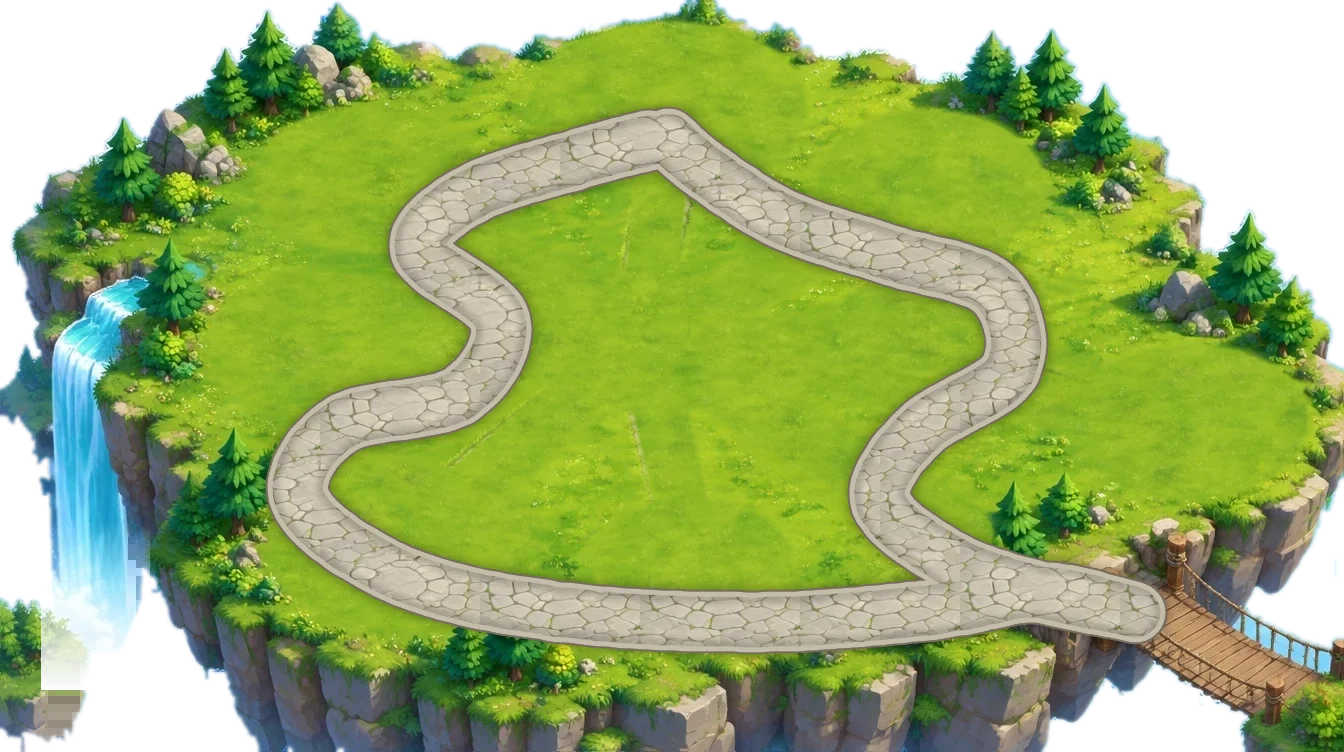
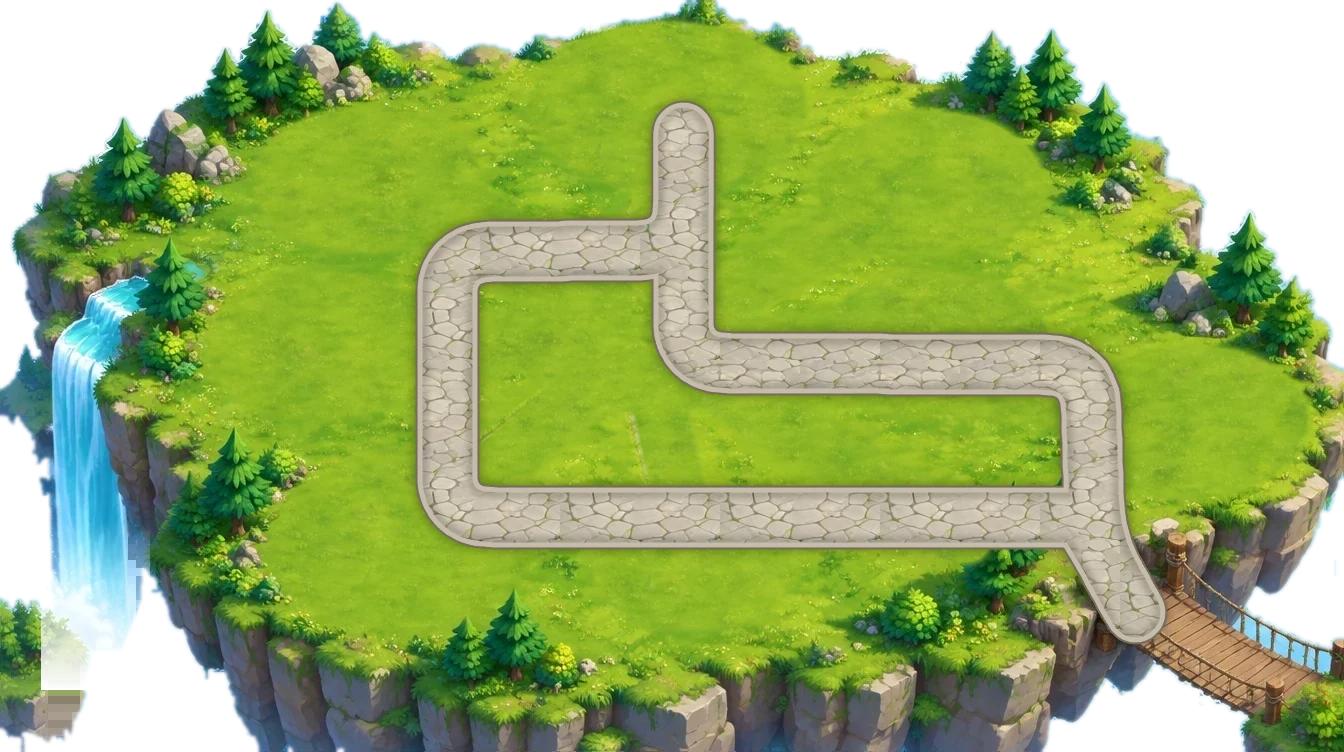
Co-op TD: new user-designed map, 9 slots per player, bigger portrait view, combo per side
Claude-Session: https://claude.ai/code/session_011E9LWJD9fmTXFP3WMnthkp

Changed region(s): [[0.1875, 0.1223, 0.875, 0.887]]

diff --git a/index.html b/index.html
@@ -3198,10 +3198,10 @@ const tdTix=()=>{const t=tdSV();return 3+t.buy-t.used};
 const TDLV=1,tdOpen=()=>owned().length>0;
 // ---- path helpers(支援多條路線)
 function tdMkRoute(P){const L=[0];for(let i=1;i<P.length;i++){const [x0,y0]=P[i-1],[x1,y1]=P[i];L.push(L[i-1]+Math.hypot(x1-x0,y1-y0))}return {P,L,len:L[L.length-1]}}
-const TDR1=[tdMkRoute(TDPATH)],TDR2=[[[1135,612],[1128,610],[1118,609],[1106,606],[1093,604],[1079,601],[1066,598],[1052,595],[1040,592],[1028,589],[1017,586],[1005,582],[993,578],[982,575],[971,570],[960,565],[950,560],[940,554],[928,547],[918,540],[907,532],[897,524],[889,516],[883,508],[880,500],[879,492],[881,483],[885,474],[890,465],[896,456],[904,447],[912,438],[920,430],[930,422],[941,415],[955,408],[968,401],[982,394],[994,386],[1003,378],[1010,370],[1014,361],[1016,350],[1016,340],[1015,328],[1012,318],[1008,307],[1002,298],[995,290],[986,284],[975,278],[962,274],[948,270],[933,266],[918,263],[904,259],[890,255],[877,251],[863,247],[849,242],[836,238],[822,234],[809,230],[797,225],[785,220],[774,214],[763,209],[752,202],[742,196],[733,190],[724,183],[716,177],[708,172],[701,167],[694,162],[688,157],[683,152],[678,148],[674,144],[671,140],[668,138]],[[1135,612],[1128,610],[1118,608],[1107,604],[1094,601],[1081,598],[1067,595],[1053,593],[1040,592],[1027,592],[1015,594],[1002,596],[990,599],[976,602],[962,605],[947,608],[930,610],[912,612],[892,614],[872,616],[851,618],[829,619],[806,621],[783,622],[760,622],[736,622],[711,622],[685,621],[659,620],[633,619],[608,617],[583,615],[560,612],[538,609],[516,606],[494,602],[474,598],[454,593],[435,588],[417,582],[400,575],[384,567],[368,559],[352,550],[338,540],[325,530],[314,520],[305,510],[300,500],[298,490],[298,480],[301,470],[306,460],[313,450],[321,441],[330,432],[340,425],[352,419],[366,415],[383,412],[400,410],[417,408],[434,405],[448,401],[460,395],[470,388],[478,379],[486,370],[492,360],[497,350],[500,340],[501,329],[500,320],[495,311],[485,302],[473,293],[459,284],[446,275],[434,266],[425,258],[420,250],[420,242],[422,235],[427,227],[433,220],[442,214],[451,207],[460,201],[470,195],[481,190],[493,184],[507,180],[521,175],[535,171],[550,167],[563,164],[575,160],[586,157],[598,154],[609,150],[619,148],[629,145],[637,143],[644,141],[650,140]]].map(tdMkRoute);let TDR=TDR1;
+const TDR1=[tdMkRoute(TDPATH)],TDR2=[[[1135,612],[1130,602],[1124,592],[1119,582],[1113,572],[1108,562],[1104,551],[1100,540],[1098,529],[1096,518],[1094,507],[1094,495],[1093,483],[1093,472],[1093,460],[1092,449],[1092,437],[1092,425],[1091,414],[1091,404],[1089,395],[1085,385],[1080,378],[1073,372],[1064,368],[1054,366],[1045,365],[1033,365],[1021,365],[1009,365],[998,364],[986,364],[974,364],[962,364],[950,364],[938,364],[926,364],[914,364],[902,364],[890,364],[879,364],[867,364],[855,364],[843,364],[831,364],[819,364],[807,364],[795,364],[784,364],[772,363],[760,363],[748,363],[736,363],[724,363],[713,361],[703,358],[696,353],[690,346],[686,337],[684,326],[683,314],[683,302],[683,290],[683,278],[683,267],[683,255],[683,243],[683,231],[683,219],[683,207],[683,195],[683,183],[683,172],[683,160],[683,148],[683,136]],[[1135,612],[1129,602],[1124,592],[1118,582],[1113,572],[1107,562],[1102,552],[1096,542],[1090,532],[1085,525],[1077,519],[1066,517],[1054,517],[1042,517],[1030,517],[1018,517],[1006,517],[994,517],[982,517],[971,517],[959,517],[947,517],[935,517],[923,517],[911,517],[899,517],[887,517],[875,517],[863,517],[851,517],[839,517],[827,517],[815,517],[803,517],[791,517],[779,517],[767,517],[755,517],[743,517],[731,517],[719,517],[707,517],[695,517],[683,517],[672,517],[660,517],[648,517],[636,517],[624,517],[612,517],[600,517],[588,517],[576,517],[564,517],[552,517],[540,517],[528,517],[516,517],[504,517],[492,517],[480,516],[470,513],[462,509],[455,502],[451,494],[448,484],[447,472],[447,460],[447,448],[447,436],[447,424],[447,412],[447,400],[447,388],[447,376],[447,365],[447,353],[447,341],[447,329],[447,317],[447,305],[447,293],[449,282],[452,272],[457,264],[464,259],[473,254],[484,252],[496,252],[508,252],[520,251],[532,251],[543,251],[555,251],[567,251],[579,251],[591,251],[602,251],[614,251],[626,250],[638,250],[650,249],[660,246],[668,242],[675,235],[679,227],[682,217],[683,205],[683,194],[683,182],[683,170],[683,159],[683,147],[683,136]]].map(tdMkRoute);let TDR=TDR1;
 const TDLEN=TDR1[0].len;
-const TDSLOT2=[[1080,460],[930,330],[1090,250],[800,320],[390,490],[200,420],[560,520],[580,280],[780,555],[668,250]],TDSIDE2=['A','A','A','A','B','B','B','B','C','C'];
-const TDDECO2=[[230,170],[1175,240],[1240,450],[220,600],[880,140],[1000,120],[150,330],[620,430],[460,110],[700,340]];
+const TDSLOT2=[[770,150],[770,225],[770,300],[865,300],[960,300],[1055,300],[1172,405],[1172,495],[642,402],[505,190],[600,190],[370,330],[535,318],[370,450],[540,585],[665,585],[790,585],[915,585]],TDSIDE2=['A','A','A','A','A','A','A','A','A','B','B','B','B','B','B','B','B','B'];
+const TDDECO2=[[230,170],[1175,240],[1240,450],[220,600],[880,140],[1000,120],[150,330],[850,445],[460,110],[960,445]];
 function tdPos(d,r){const R=TDR[r||0]||TDR[0],L=R.L,P=R.P;d=clamp(d,0,R.len);let lo=0,hi=L.length-1;while(hi-lo>1){const m=(lo+hi)>>1;if(L[m]<=d)lo=m;else hi=m}const f=(d-L[lo])/Math.max(1e-6,L[hi]-L[lo]),[x0,y0]=P[lo],[x1,y1]=P[hi];return [x0+(x1-x0)*f,y0+(y1-y0)*f,x1-x0]}
 // ---- waves
 function tdPool(tone){const all=Object.keys(ENEMY).filter(k=>!ENEMY[k].boss&&!['skcat'].includes(k)),main=all.filter(k=>TDCNT[tone].includes(ENEMY[k].el));return {all,main:main.length?main:all}}
@@ -3323,7 +3323,7 @@ function tdImpact(kd,x,y,big){const T=TD,m=big?2.2:1,P=o=>T.parts.push(Object.as
   else if(kd==='rock'){for(let i=0;i<9*m;i++){const a=-Math.PI*R(.05,.95),v=R(60,170)*m;P({x,y:y+8,vx:Math.cos(a)*v,vy:Math.sin(a)*v,g:400,life:R(.4,.7),c:['#a07850','#c8a878','#7a5a3a'][i%3],sz:R(3,6)*m})}for(let i=0;i<5*m;i++)P({puff:1,x:x+R(-20,20)*m,y:y+10,vx:R(-30,30),vy:R(-30,-10),g:0,life:R(.5,.8),c:'210,190,160',sz:R(10,18)*m})}
   else if(kd==='bee'){for(let i=0;i<5;i++){const a=rnd()*7,v=R(40,90);P({x,y,vx:Math.cos(a)*v,vy:Math.sin(a)*v,g:0,life:.35,c:['#ffd020','#3a2a10'][i%2],sz:2.5})}}}
 function tdUlt(w,e,a){const T=TD,[x,y]=TD.slots[w.slot],[ex,ey]=tdPos(e.d,e.r),el=w.el,P=o=>T.parts.push(Object.assign({t:0},o)),R=(a2,b)=>a2+rnd()*(b-a2);
-  if(T.coop){const now=T.t,me=w.side||'A';const o=T.ults.find(u=>u.side!==me&&now-u.t<2&&Math.hypot(u.x-ex,u.y-ey)<170);T.ults=T.ults.filter(u=>now-u.t<2);T.ults.push({side:me,t:now,x:ex,y:ey});if(o){T.ults=[];tdLater(.45,()=>tdCombo((ex+o.x)/2,(ey+o.y)/2))}}
+  if(T.coop){const now=T.t,me=w.side||'A';const o=T.ults.find(u=>u.side!==me&&now-u.t<2);T.ults=T.ults.filter(u=>now-u.t<2);T.ults.push({side:me,t:now,x:ex,y:ey});if(o){T.ults=[];tdLater(.45,()=>{tdCombo(ex,ey);tdCombo(o.x,o.y)})}}
   sfxSkill(w.k,SV.pets[w.k]?SV.pets[w.k].st:0);const hit=()=>{if(e.hp>0||1)tdHit(w,e,a,true);tdImpact(el,ex,ey-20,1);T.shake=Math.max(T.shake,.35)};
   if(el==='fire'){P({meteor:1,x:ex+120,y:ey-420,x2:ex,y2:ey-10,life:.38,c:'fire'});tdLater(.36,()=>{hit();P({ring:1,x:ex,y:ey,r:110,life:.5,c:'#ff8a30',lw:6});for(let i=0;i<16;i++){const an=i/16*7;P({flame:1,x:ex+Math.cos(an)*30,y:ey+Math.sin(an)*20,vx:Math.cos(an)*120,vy:Math.sin(an)*60-80,g:-60,life:R(.5,.8),sz:R(10,16)})}tdFlash('255,160,60',.28,.25)})}
   else if(el==='water'){P({wave:1,x:ex,y:ey,life:.7,r:120});hit();for(let i=0;i<5;i++)P({pillar:1,x:ex+R(-70,70),y:ey+R(-20,20),life:R(.45,.7),h:R(60,110),c:'#7fd0ff'});tdFlash('120,200,255',.18,.3)}
@@ -3380,7 +3380,7 @@ function tdUpdate(dt){const T=TD;if(!T)return;TT+=dt;try{skinFx(T.SK,dt)}catch(e
   if(T.parts.length>650)T.parts.splice(0,T.parts.length-650)}
 function tdNextWave(){const T=TD;T.wave++;T.spawn=TDPEEK[T.wave+T.tone]||tdWave(T.wave);delete TDPEEK[T.wave+T.tone];T.st=0;T.gap=0;T.waveOn=true;T.bt=2;sfx('up');tdHudBuild()}
 // ---- draw
-function tdLayout(){const port=H>W*1.05,top=port?50:46,bot=port?118:4,cp=TD&&TD.coop;const vx0=cp?110:port?292:200,vx1=cp?1250:port?1050:1300,vy0=port?-20:-15,vy1=port?690:650;const vw=vx1-vx0,vh=vy1-vy0;
+function tdLayout(){const port=H>W*1.05,top=port?50:46,bot=port?118:4,cp=TD&&TD.coop;const vx0=cp?(port?325:200):port?292:200,vx1=cp?(port?1215:1300):port?1050:1300,vy0=port?-20:-15,vy1=port?690:650;const vw=vx1-vx0,vh=vy1-vy0;
   const s=Math.min(W/vw,(H-top-bot)/vh);TDV.s=s;TDV.port=port;TDV.ox=(W-vw*s)/2-vx0*s;TDV.oy=(port?top:top+((H-top-bot)-vh*s)/2)-vy0*s;TDV.mb=TDV.oy+vy1*s;
   const pk=$('tdPick'),inf=$('tdInfo'),bb=$('tdBot').getBoundingClientRect(),bt=Math.round((bb.height?H-bb.top:78)+8)+'px';if(port&&H-TDV.mb>200){const tp=Math.round(TDV.mb+6)+'px';pk.style.top=tp;pk.style.bottom=bt;pk.style.maxHeight='none';inf.style.top=tp;inf.style.bottom='auto';inf.style.maxHeight=Math.max(80,(bb.height?bb.top:H-78)-8-TDV.mb-6)+'px';inf.hidden=!pk.hidden}else{pk.style.top='';pk.style.bottom='';pk.style.maxHeight='';inf.hidden=true}}
 const tdX=x=>TDV.ox+x*TDV.s,tdY=y=>TDV.oy+y*TDV.s;
@@ -3534,7 +3534,7 @@ function tdPick(i){const T=TD,P=$('tdPick'),w=T.tw[i];P.hidden=false;
     if(a==='up'){const c=tdUpW(w);if(T.energy<c||w.lv>=3)return;T.energy-=c;w.spent+=c;w.lv++;w.rgT=1.2;const [x,y]=TD.slots[i];tdPart(x,y-40,20,['#ffe066','#fff'],180,.6,5);tdTxt(x,y-100,'升級!','#ffe066');sfx('up');tdPick(i);return}
     if(a==='sell'){T.energy+=Math.floor(w.spent*.5);delete T.tw[i];T.sel=null;P.hidden=true}})}
 function tdInfoHtml(){const T=TD,n=tdNP(),nw=T.prep>0?1:T.wave+1,fin=T.mode!=='endless'&&nw>TDW;const ks=fin?[]:[...new Set((T.spawn.length&&T.wave?T.spawn:tdPeek(nw)).map(x=>x.k))].slice(0,6);
-  if(T.coop)return `<div class="tdih"><b>👥 好友共同守塔(試玩)</b> ${tdBonHtml()}<small>按上方「🎮」切換右路／左路玩家;右、左石台各自守一路,粉紅「共用」石台誰都能放。兩人 2 秒內在同一區放大招會觸發「💞 友情合擊」!</small></div><div class="tdih"><small>右路能量 ✦${Math.floor(T.side==='A'?T.energy:T.store.A)} · 左路能量 ✦${Math.floor(T.side==='B'?T.energy:T.store.B)} · 城門 ${T.hp}/${T.hpMax}</small></div>`;
+  if(T.coop)return `<div class="tdih"><b>👥 好友共同守塔(試玩)</b> ${tdBonHtml()}<small>按上方「🎮」切換右路／左路玩家;右、左路玩家各有 9 座石台,各自守自己那一路。兩人 2 秒內都放出大招會觸發「💞 友情合擊」!</small></div><div class="tdih"><small>右路能量 ✦${Math.floor(T.side==='A'?T.energy:T.store.A)} · 左路能量 ✦${Math.floor(T.side==='B'?T.energy:T.store.B)} · 城門 ${T.hp}/${T.hpMax}</small></div>`;
   return `<div class="tdih"><b>${T.S.ic} ${T.SK.n}</b> ${tdBonHtml()}<small>萌獸 ${n} 座 · 砲塔 ${tdNW()} 座 · 點「+」石台放萌獸或砲塔(同一隻可以重複放),點已放的可以升級或收回</small></div>
   ${fin?'':`<div class="tdiw"><b>${T.spawn.length&&T.wave?'這一波':'下一波'}(第 ${T.spawn.length&&T.wave?T.wave:nw} 波)</b><div>${ks.map(k=>`<span class="tdie"><img src="assets/${ENEMY[k].img}.webp" alt=""><small><span class="el el-${ENEMY[k].el}">${EL[ENEMY[k].el].n}</span>${ENEMY[k].fly?' 飛':''}${ENEMY[k].boss?' 頭目':''}</small></span>`).join('')}</div></div>`}
   <div class="tdit">💡 ${['飛行怪只有遠程萌獸打得到','岩系萌獸專剋高防禦的裝甲怪','冰系減速 + 火系範圍爆炸是好搭檔','能量夠就先升級主力萌獸,3 級射程更遠','提前出怪可以多拿能量','頭目會震暈附近的萌獸,別全部擠在一起'][Math.floor(T.t/8)%6]}</div>`}
@@ -3561,7 +3561,7 @@ function pTD(){const t=tdSV(),n=tdTix();tdFetch();
     <div class="card ladme"><div class="lm"><b>今日守塔券</b><small>普通/困難/地獄、無盡模式都會用 1 張</small></div><div class="tix"><b>🎫 ${n}</b><small>剩餘</small><button class="blue" data-act="tdBuy" ${t.buy>=TDBUY.length?'disabled':''}>${t.buy<TDBUY.length?'💎'+TDBUY[t.buy]+' +1':'今日已買滿'}</button></div></div>`;
   const mxl=Math.max(0,...owned().map(k=>SV.pets[k].lv||1)),TDNEED=[0,20,30];
   h+=`<div class="tdtip">💡 第一次玩建議先按「練習」熟悉玩法(不耗守塔券、沒有獎勵),熟悉後再正式挑戰,避免浪費券。</div><div class="card"><h3>挑戰關卡 <small class="dim" style="font-size:12px;font-weight:400">3★＝滿血守住 · 2★＝剩一半以上</small></h3><div class="tdds">${TDDIFF.map((D,i)=>{const lv0=mxl<TDNEED[i],cl0=i>0&&!(t.clr[i-1]>0),lock=lv0||cl0,st=t.clr[i]||0;return `<div class="tdd ${lock?'lock':''}" style="--c:${D.c}"><b>${D.n}</b><span class="tdstars sm">${[0,1,2].map(j=>`<span class="${j<st?'':'off'}">★</span>`).join('')}</span><small>${lock?[lv0?'需要一隻 Lv'+TDNEED[i]+' 萌獸':'',cl0?'先通關'+TDDIFF[i-1].n:''].filter(Boolean).join('、'):t.first[i]?'每日首勝 💎'+[20,40,80][i]:'首通 💎'+[100,200,400][i]}</small><button class="go" data-act="tdGo:normal:${i}" ${lock||n<1?'disabled':''}>挑戰</button><button class="mini" data-act="tdGo:practice:${i}" ${lock?'disabled':''}>練習</button></div>`}).join('')}</div></div>`;
-  h+=`<div class="card"><h3>👥 好友共同守塔 <small>試玩版</small></h3><p class="dim">兩條路線同時來襲,和好友共守一座主城!試玩版由你一人切換操作左右兩路,體驗合作玩法(支援能量、求救、共用石台、友情合擊)。不耗守塔券、沒有獎勵。</p><div class="bt"><button class="go" data-act="tdGo:coop:0">開始試玩</button></div></div>`;
+  h+=`<div class="card"><h3>👥 好友共同守塔 <small>試玩版</small></h3><p class="dim">兩條路線同時來襲,和好友共守一座主城!試玩版由你一人切換操作左右兩路,體驗合作玩法(每人 9 座石台、支援能量、求救、友情合擊)。不耗守塔券、沒有獎勵。</p><div class="bt"><button class="go" data-act="tdGo:coop:0">開始試玩</button></div></div>`;
   const top=TDNET.top||[],me=t.wbest||0;
   h+=`<div class="card"><h3>♾ 無盡模式 <small>本週最佳 ${me} 波 · 歷史最佳 ${t.best||0} 波</small></h3><p class="dim">怪物無限湧出,看你能撐幾波!中途撤退也會依撐過的波數拿到獎勵。每撐過 1 波:上場萌獸各 +300 經驗、💎2。每週一重新計算,前 50 名有鑽石獎勵:第 1 名 💎600、2~3 名 💎400、4~10 名 💎200、11~50 名 💎60;前 3 名再送一週限定稱號「🛡守塔英雄」。</p>
     <div class="bt"><button class="go" data-act="tdGo:endless:0" ${n<1?'disabled':''}>開始無盡模式</button></div>
